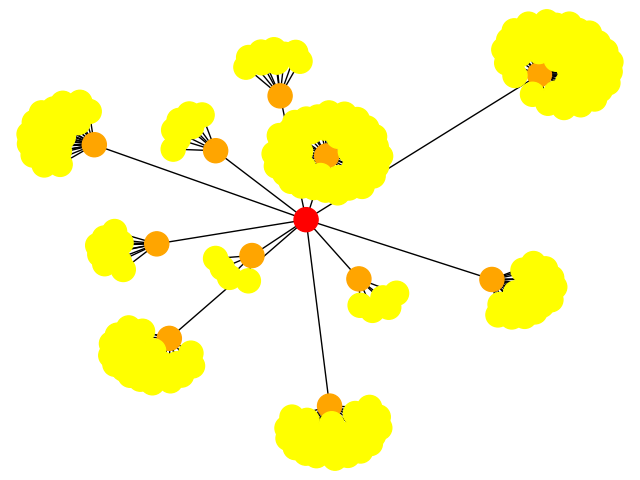
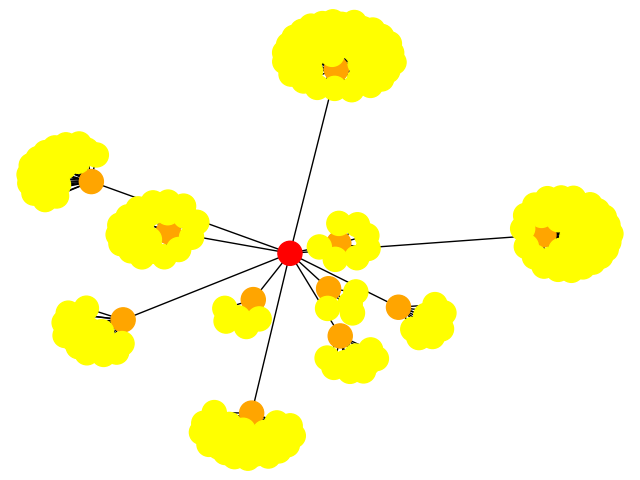
Fixed the Infected Graph and commented out the actual sms part

diff --git a/sms.py b/sms.py
@@ -105,5 +105,5 @@ def sendSHN_Notice():
     firstContactQueue = avlQueueFirst(86148198,1)
     secondContactQueue = avlQueueFirst(86148198,2)
     __sendSMS(firstContactQueue,secondContactQueue)
-    ActualSend_No = "+65" + str(ActualSend_No)
-    actuallySendSMS(ActualSend_No)
+    #ActualSend_No = "+65" + str(ActualSend_No)
+    #actuallySendSMS(ActualSend_No)

diff --git a/main.py b/main.py
@@ -1,7 +1,7 @@
 from contactCT import contactCT
 from sms import sendSHN_Notice
 from FindContacted_SE import findContactSE
-#from infectedGraph_SE import infectedPlot
+from infectedGraph_SE import infectedPlot
 #CLI interface
 
 def main():
